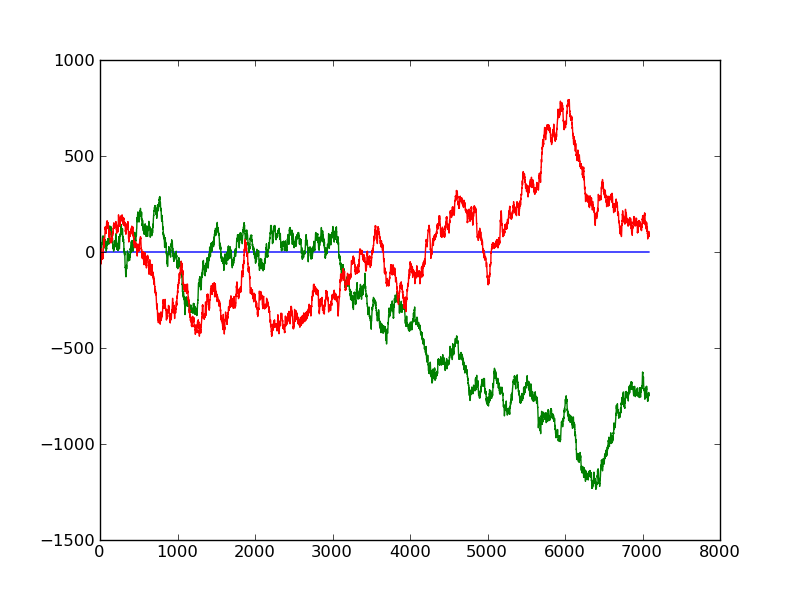
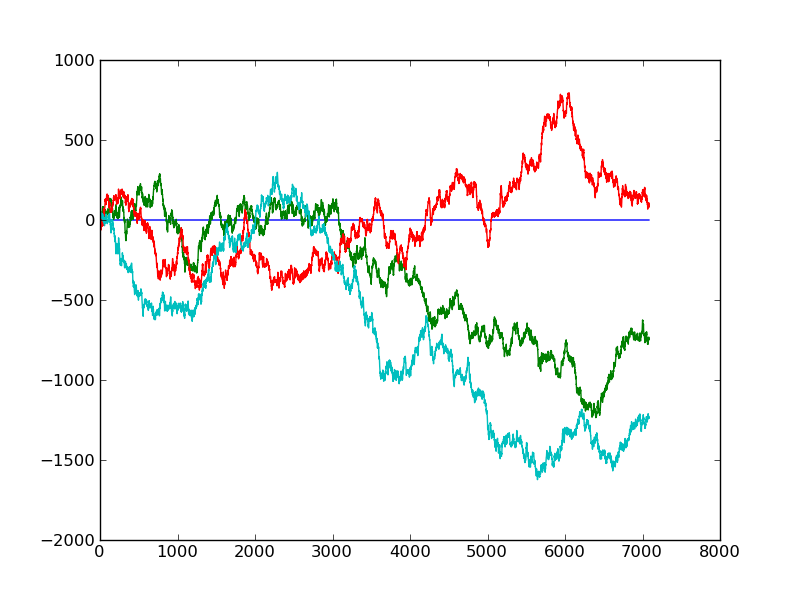
initializing to 1

diff --git a/galsim_iter.py b/galsim_iter.py
@@ -548,7 +548,7 @@ class GalsimKernel:
         P.plot(np.arange(0,len(sn_flux_history[0])),sn_flux_history[0])
         P.plot(np.arange(0,len(sn_flux_history[1])),sn_flux_history[1])
         P.plot(np.arange(0,len(sn_flux_history[2])),sn_flux_history[2])
-        #P.plot(np.arange(0,len(sn_flux_history[3])),sn_flux_history[3])
+        P.plot(np.arange(0,len(sn_flux_history[3])),sn_flux_history[3])
         out = os.path.join(self.outdir,'sn_counts_history.png')
         P.savefig(out)
         P.figure(2)
@@ -757,7 +757,7 @@ if __name__=='__main__':
                         , SN_counts_guesses = SN_counts_guesses
                         )
     
-    test.run()
+    #test.run()
     test.plot_pixel_histograms()
     #Check backgrounds
     #write all data and sim files to fits
